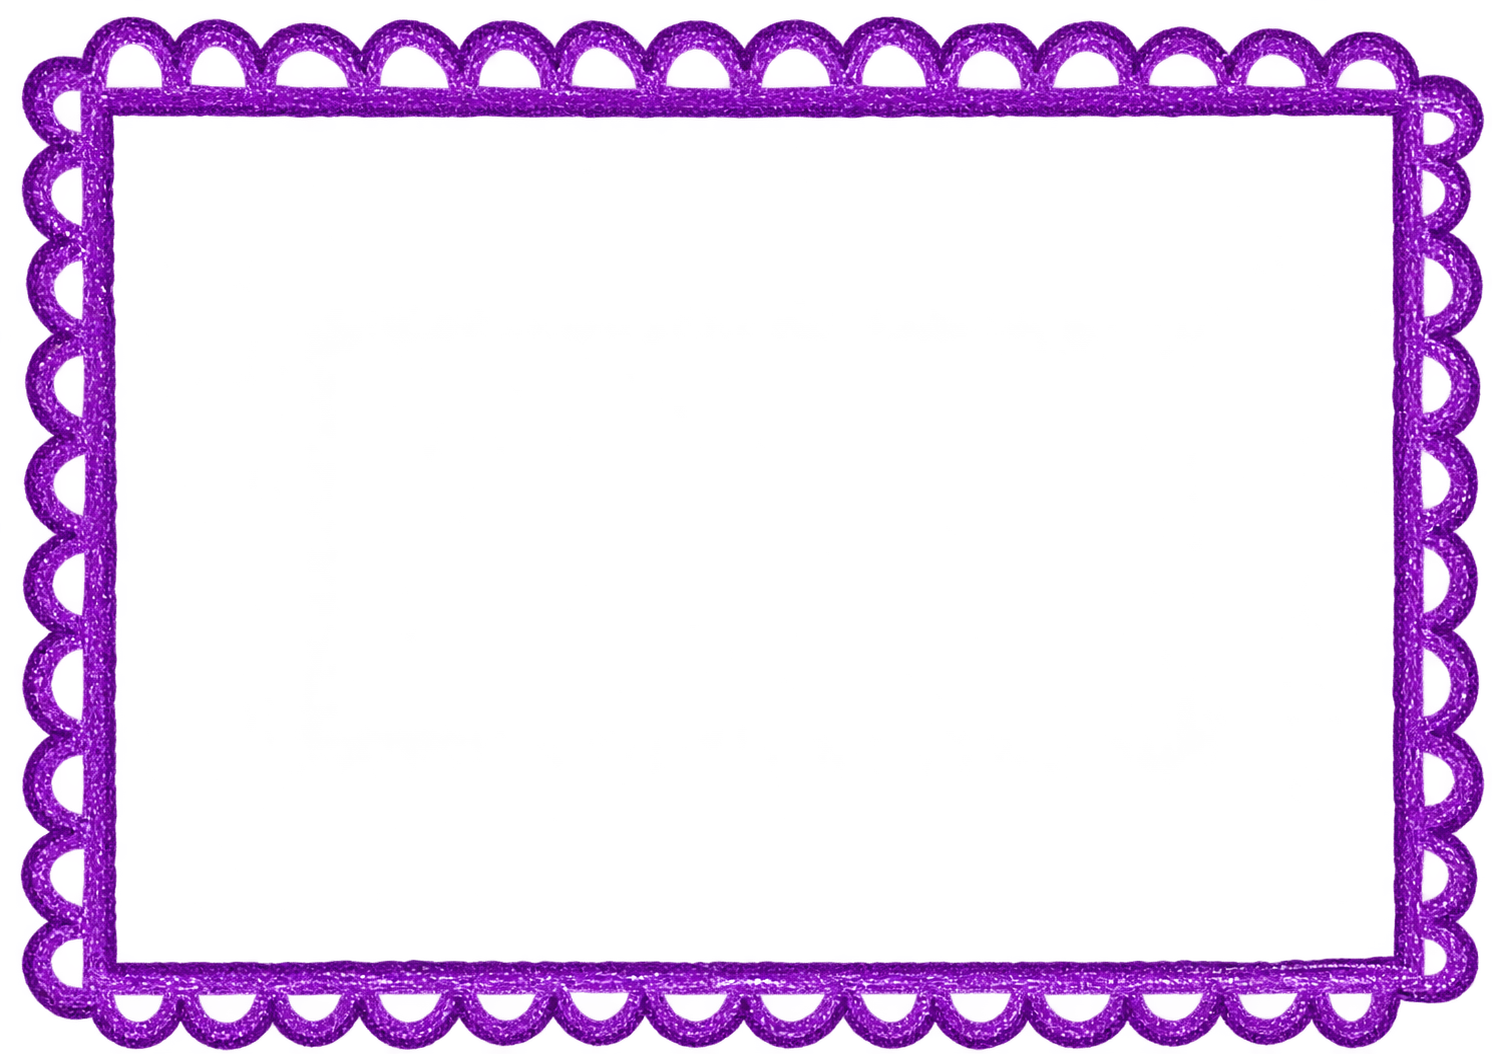
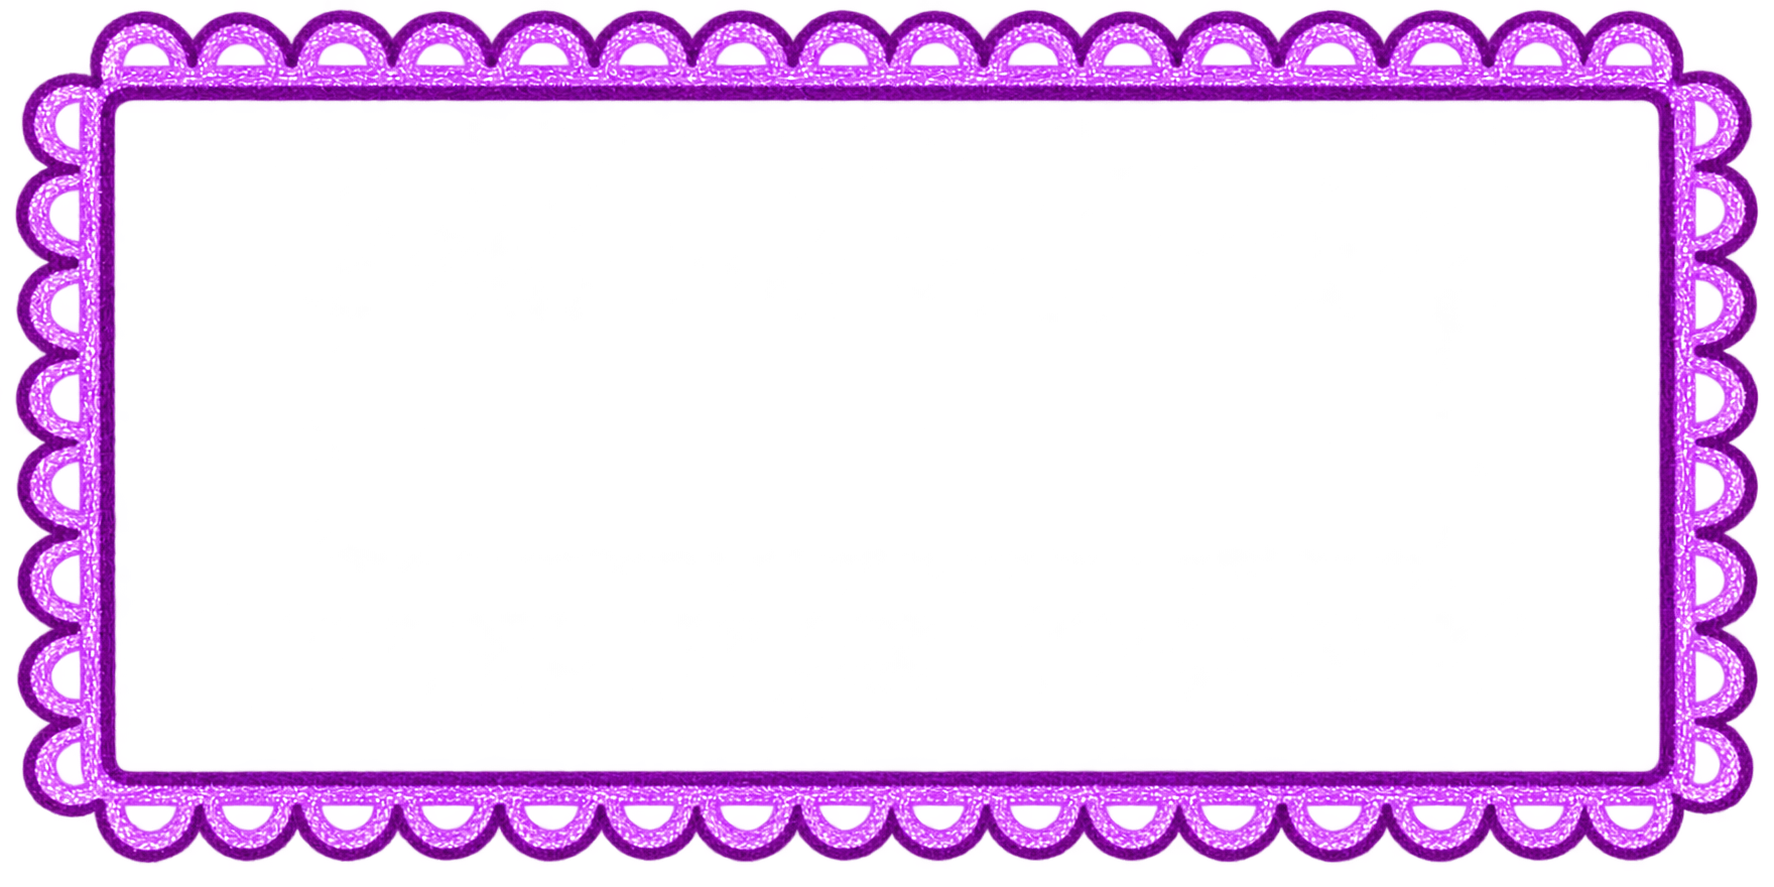
style(recommendations): refine illustrated form layout

Changed region(s): [[0.0, 0.0, 1.0, 1.0]]

diff --git a/frontend/src/components/Recommendations/Recommendations.css b/frontend/src/components/Recommendations/Recommendations.css
@@ -4,7 +4,6 @@
 
 .recommendations-page {
     position: relative;
-    margin-top: -90px;
     width: 100%;
     max-width: 1000px;
 
@@ -13,6 +12,37 @@
     color: #4d3930;
 
     animation: scrapbook-entry 0.45s ease-out;
+}
+
+.recommendations-page--form-only {
+    display: flex;
+    flex: 1 1 auto;
+    flex-direction: column;
+    align-self: stretch;
+    min-height: 0;
+    padding-block: clamp(6px, 1.1vh, 14px);
+}
+
+.recommendations-page--form-only .recommendations-header {
+    flex: 0 0 auto;
+    margin-bottom: clamp(8px, 1.5vh, 16px);
+}
+
+.recommendations-page--form-only .recommendations-form {
+    display: flex;
+    flex: 1 1 auto;
+    flex-direction: column;
+    justify-content: space-between;
+    min-height: 0;
+    gap: clamp(5px, 0.9vh, 10px);
+}
+
+.recommendations-page--form-only .recommendation-section {
+    margin-bottom: 0;
+}
+
+.recommendations-page--form-only .handwritten-divider {
+    margin-block: clamp(5px, 0.9vh, 10px);
 }
 
 /* =====================================
@@ -192,33 +222,6 @@
     font-size: 0.85rem;
 
     transform: rotate(12deg);
-}
-
-.header-paper-line {
-    display: flex;
-
-    align-items: center;
-    justify-content: center;
-
-    gap: 10px;
-
-    width: 220px;
-
-    margin: 0 auto 9px;
-}
-
-.header-paper-line span:not(:nth-child(2)) {
-    flex: 1;
-
-    height: 1px;
-
-    background: #d8c4b0;
-}
-
-.header-paper-line span:nth-child(2) {
-    color: #8e514e;
-
-    font-size: 13px;
 }
 
 .recommendations-description {
@@ -972,6 +975,18 @@
         width: min(100%, 370px);
 
         margin: 12px auto 0;
+    }
+}
+
+@media (max-width: 750px) {
+    .recommendations-page--form-only {
+        display: block;
+        min-height: auto;
+        padding-block: 18px 38px;
+    }
+
+    .recommendations-page--form-only .recommendations-form {
+        display: block;
     }
 }
 

diff --git a/frontend/src/components/Recommendations/Recommendations.tsx b/frontend/src/components/Recommendations/Recommendations.tsx
@@ -135,7 +135,13 @@ function Recommendations({
   }
 
   return (
-    <section className="recommendations-page">
+    <section
+      className={`recommendations-page ${
+        recommendations.length > 0
+          ? "recommendations-page--with-results"
+          : "recommendations-page--form-only"
+      }`}
+    >
       {/* DECORATIVE SCRAPBOOK ELEMENTS */}
 
       <span
@@ -179,21 +185,11 @@ function Recommendations({
       {/* HEADER */}
 
       <div className="recommendations-header">
-        <span className="scrapbook-label">
-          YOUR LITTLE BOOKISH JOURNEY
-        </span>
-
         <p className="recommendations-eyebrow">
           FIND YOUR NEXT BOOK HERE
         </p>
 
         <h1>What are you in the mood for?</h1>
-
-        <div className="header-paper-line" aria-hidden="true">
-          <span />
-          <span>♡</span>
-          <span />
-        </div>
 
         <p className="recommendations-description">
           Tell us what you like, what you are craving, and the kind
